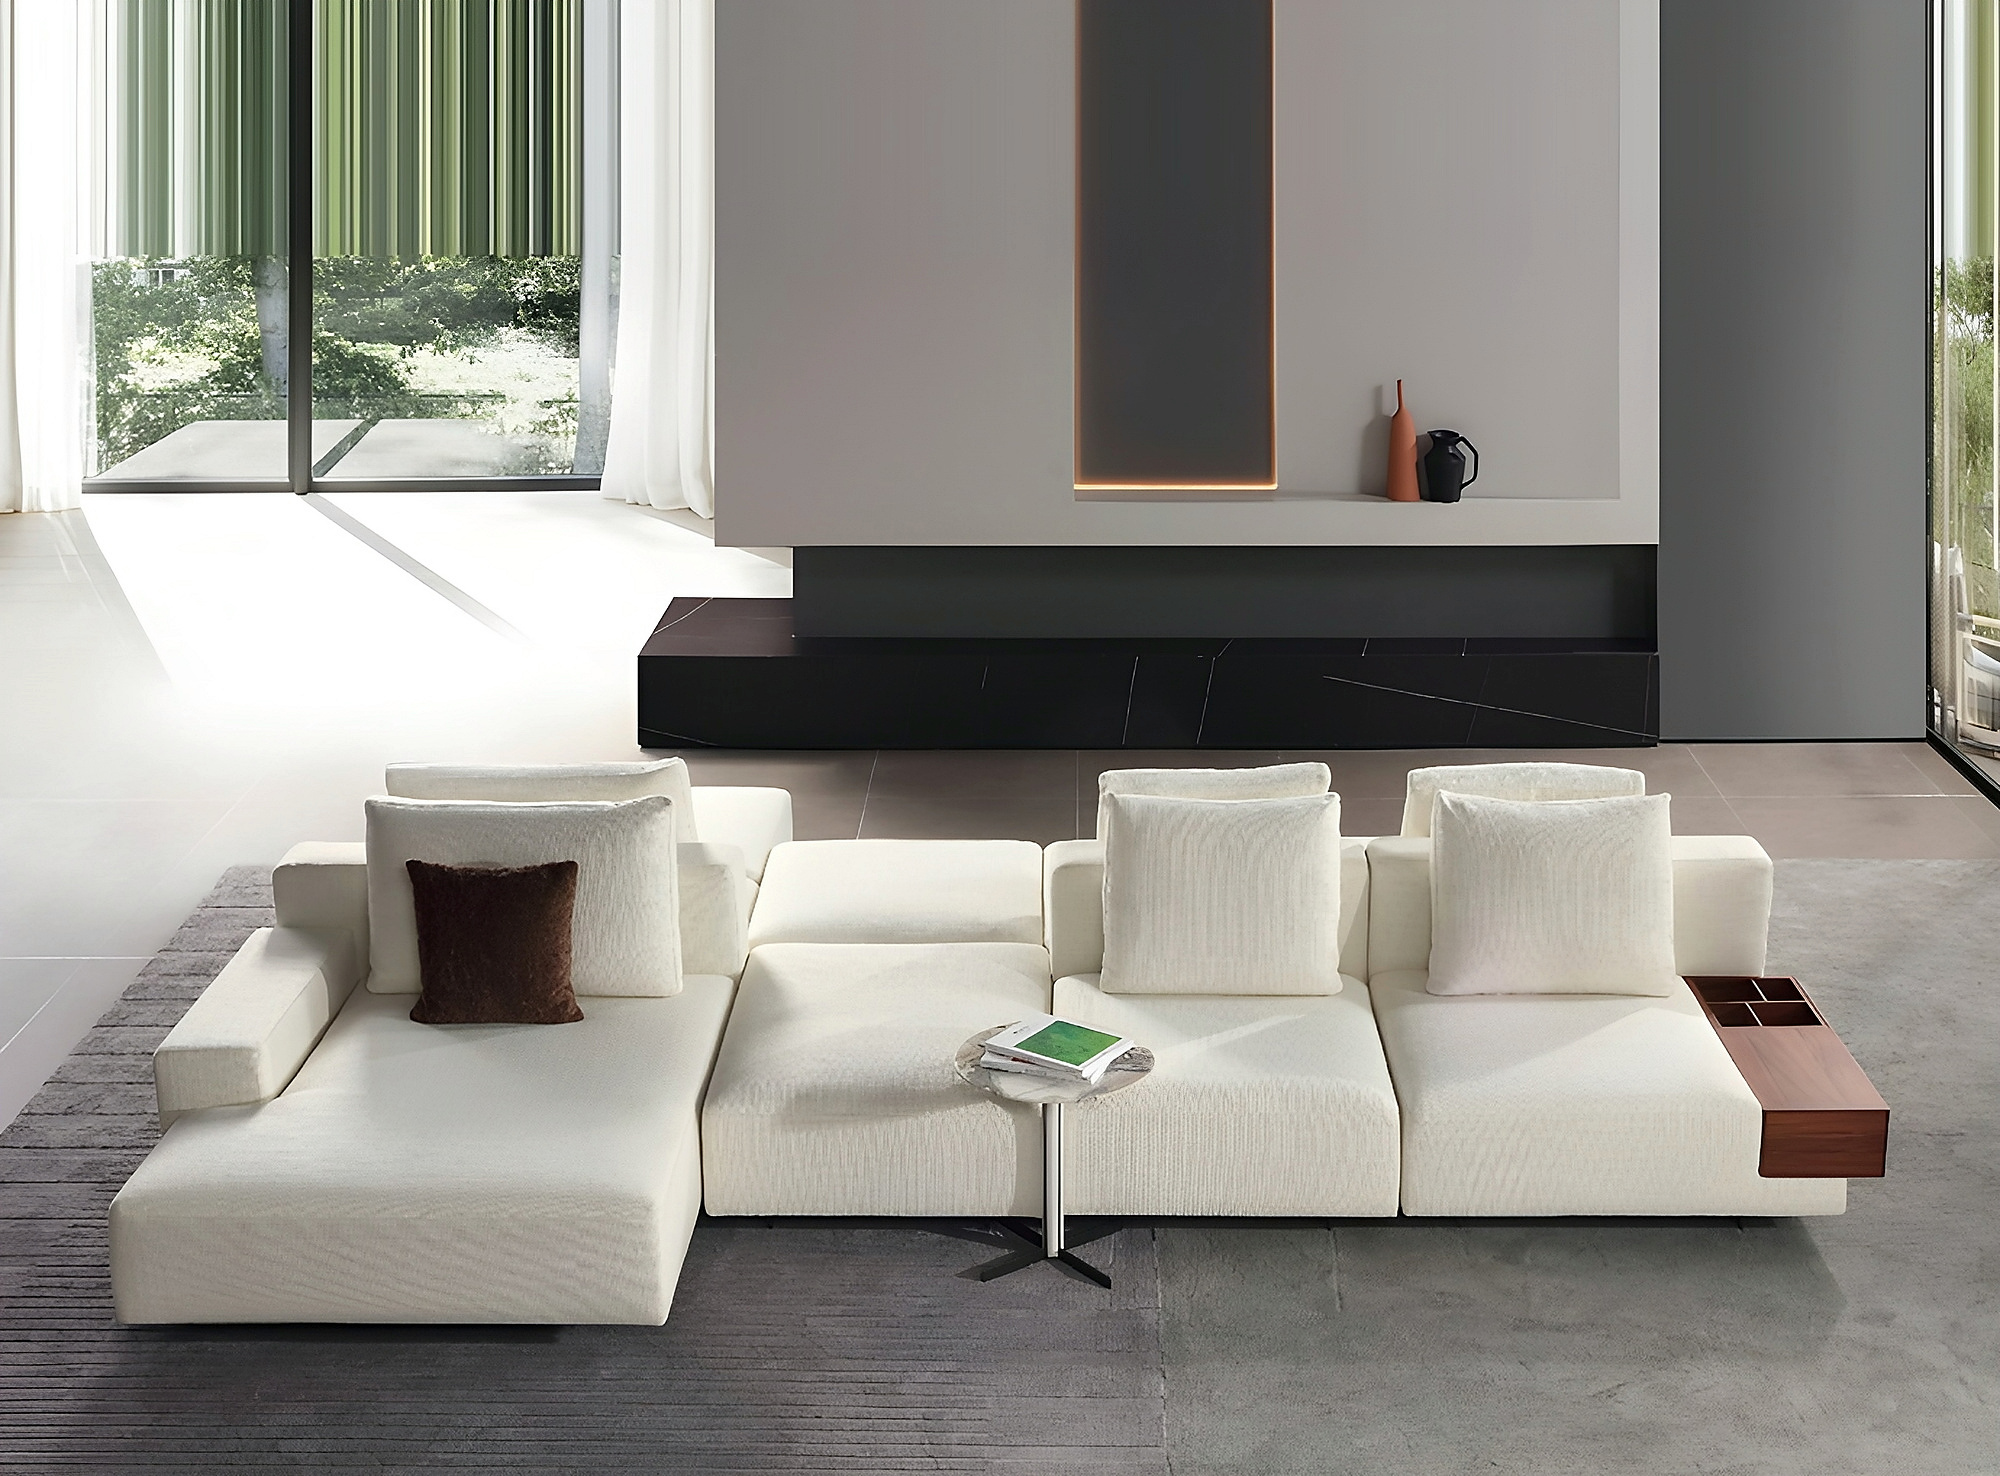
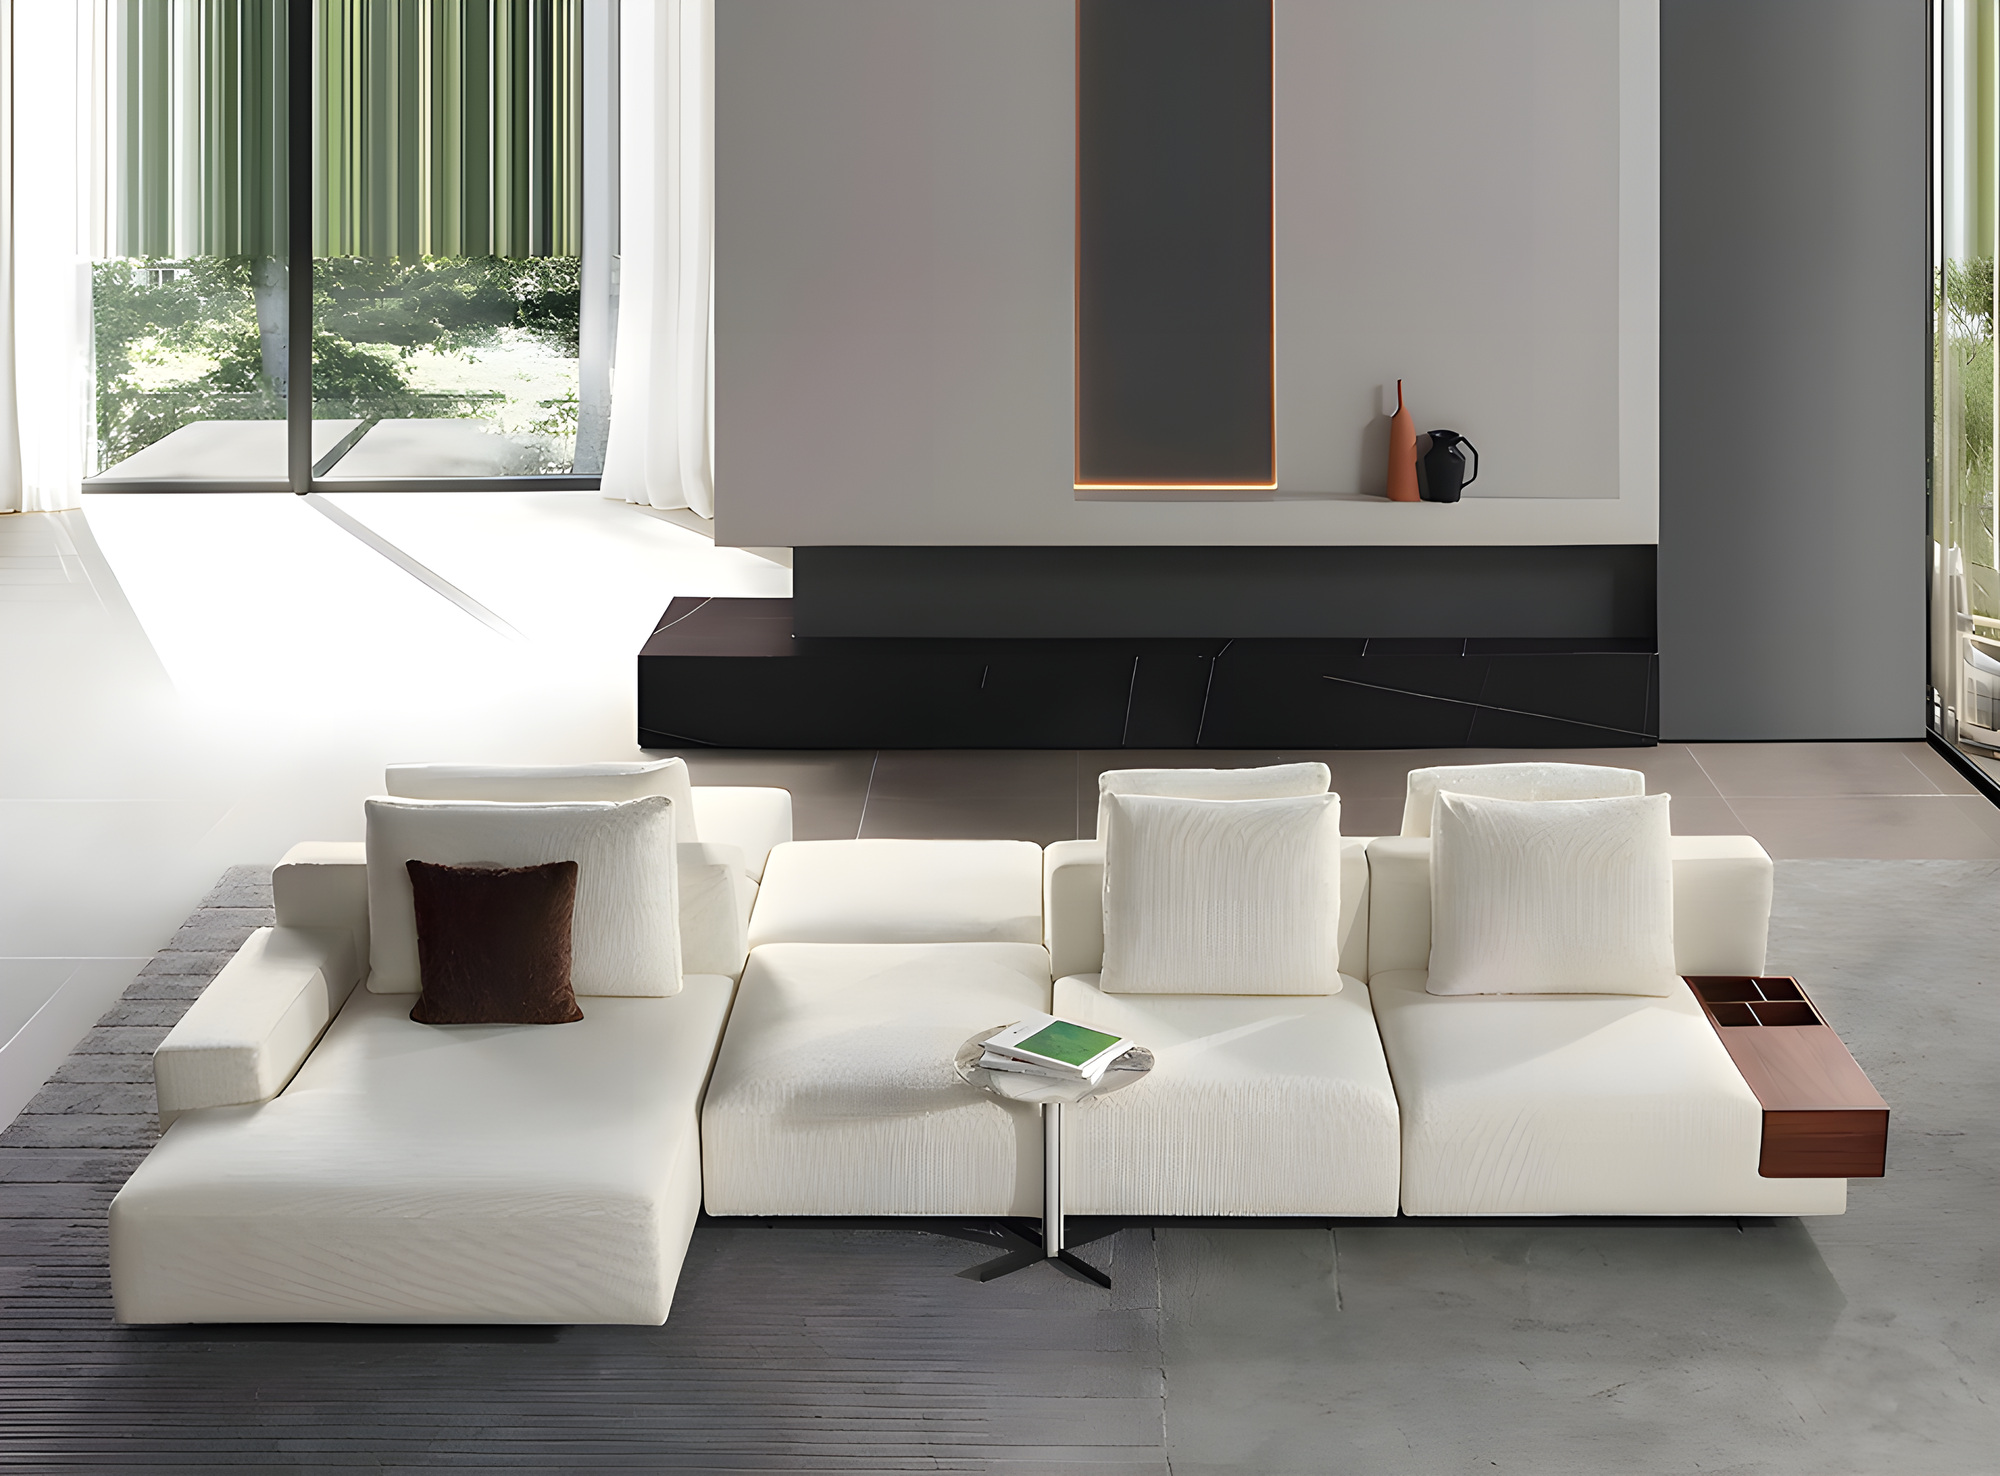
Publish the finished sofa photos so the public site matches the catalog.

diff --git a/sofas-item.html b/sofas-item.html
@@ -92,7 +92,7 @@
       thumbs.querySelectorAll("button").forEach((b) => b.classList.toggle("is-active", b === btn));
     }
 
-    fetch("assets/sofas/products.json?v=sfmq03")
+    fetch("assets/sofas/products.json?v=sfmq04")
       .then((r) => r.json())
       .then((products) => {
         const p = (slug && products.find((x) => x.slug === slug)) || products[0];

diff --git a/sofas.html b/sofas.html
@@ -57,7 +57,7 @@
   <script src="favorites.js?v=2"></script>
   <script src="search.js?v=3"></script>
   <script>
-    fetch("assets/sofas/products.json?v=sfmq03")
+    fetch("assets/sofas/products.json?v=sfmq04")
       .then((r) => r.json())
       .then((products) => {
         const grid = document.getElementById("sofas-grid");
